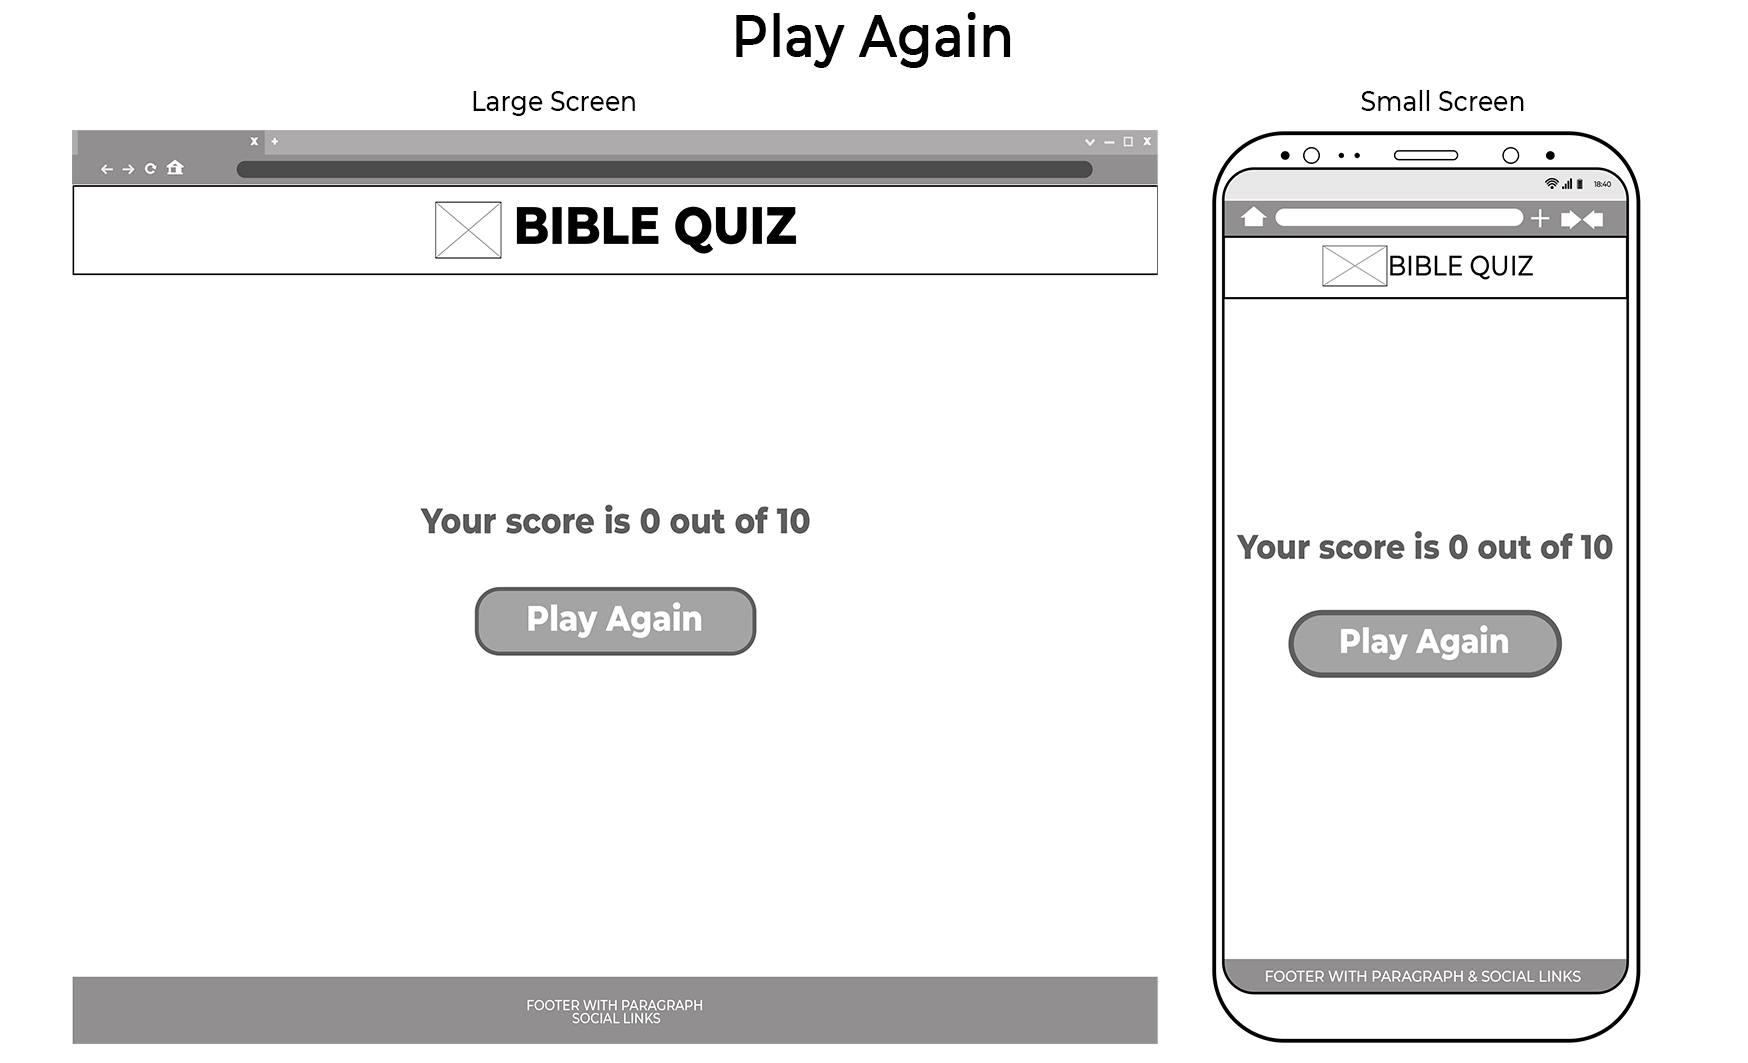
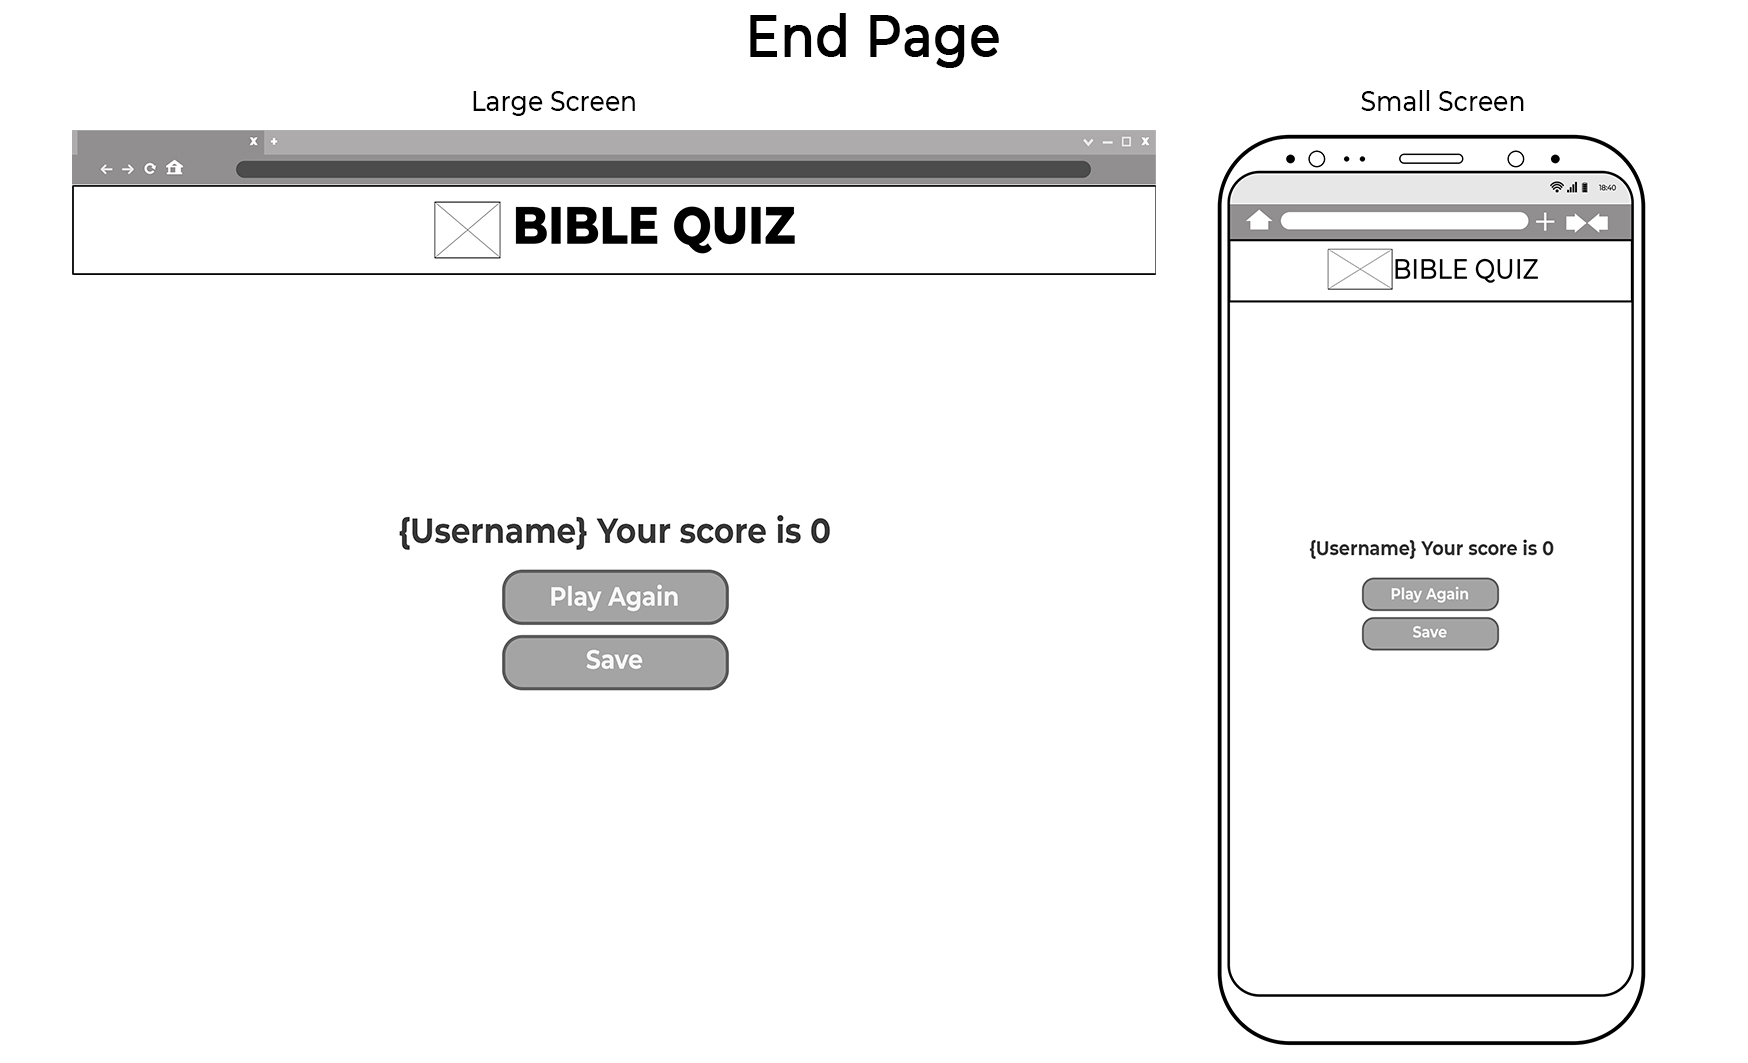
Updated Images and text in README.md

diff --git a/README.md b/README.md
@@ -44,6 +44,7 @@ View the live site [here](https://benohene.github.io/ya-bible-quiz-project/)
 - This section contains a general information about the website.
 - this section also highlight on what user should expect from the website.
 - <strong>INSTRUCTION BUTTON</strong> User can click on the this button to access a POP-UP window for instructions to the quiz.
+- <strong>LEADERBOARD BUTTON</strong> User can click on the this button to access the leaderboard page which contains Username, score and date of the game played.
 - <strong>ENTER THE QUIZ BUTTON</strong> user can click on this button to access navigate to the start screen of the quiz.
 
 ![Homepage main content](doc/readme-images/homepage-main-content.jpg)
@@ -64,12 +65,14 @@ View the live site [here](https://benohene.github.io/ya-bible-quiz-project/)
 ### Start Screen
 
 - This is the introduction page to enter the Quiz game page.
-- User must click on <stong>ENTER QUIZ BUTTON</strong> to display the quiz question.
+- User Must enter Username in the input space.
+- User must click on <stong>START QUIZ BUTTON</strong> to display the quiz question.
 
 ![Start screen](doc/readme-images/quiz-startpage.jpg)
 
 ### Quiz Dispalay Screen
 
+- <strong>Welcome Note</strong> this is the short welcome note with Username typed into the start page input.
 - <strong>Question Count</strong> This part of the section displays the question count as user continue with answering the quiz question.
 - <strong>Timer</strong> this is the timeout to let user know how many seconds left to answer question.
 - <strong>Main Question content</strong> The main question area display the question and 4 options to answer.
@@ -87,11 +90,12 @@ View the live site [here](https://benohene.github.io/ya-bible-quiz-project/)
 - When the user choose the wrong answer, it gives a red color feedback on the option choosen and green on the correct answer.
   ![Wrong Answer](doc/readme-images/wrong-answer.jpg)
 
-### Score and Play Again Page
+### End Page
 
-- This page displays the score after all question has been answered correctly or not.
+- This page displays the score after all question has been answered correctly or not-This also have username.
 - The <strong>PLAY AGAIN BUTTON</strong> allow users to restart the quiz game again or click on the LOGO to return to the homepage.
-  ![Wrong Answer](doc/readme-images/score-page.jpg)
+- The <strong>SAVE BUTTON</strong> allow users save the score and redirect user to the Leaderboard page.
+  ![End Page](doc/readme-images/score-page.jpg)
 
 ## FUTURE FEATURES
 
@@ -119,10 +123,13 @@ In the future, a username form will be create to allow users to enter their deta
 
 ![Quiz Display Screen](doc/readme-images/questionpage.jpg)
 
-### Play Again
+### End Page
 
-![Play Again](doc/readme-images/playagain.jpg)
+![End page](doc/readme-images/playagain.jpg)
 
+### Leaderboard Page
+
+![Leaderboard page](doc/readme-images/leaderboard.jpg)
 ---
 
 # TECHNOLOGIES APPLIED
@@ -175,6 +182,8 @@ During testing, the Unicorn Revealer and Wave were used to check for structure a
 <strong>Quiz Display Page</strong>
 ![Unicorn Revealer](doc/testing-images/quiz.jpg)
 
+<strong>Leaderboard Page</strong>
+![Unicorn Revealer](doc/testing-images/leaderboard.jpg)
 ### Wave Web Accessibility
 
 ![Wave](doc/testing-images/home-wave.jpg)
@@ -262,29 +271,30 @@ The result was quiet good. The testing was done one all the pages both on deskto
 
 - ### Leaderboard Button
 
-    * Clicking on the Leaderboard button will navigate users to the locally stored score on the leaderboard page either empty or with data-PASS
+  - Clicking on the Leaderboard button will navigate users to the locally stored score on the leaderboard page either empty or with data-PASS
 
 - ### Enter Quiz Button
 
-    * This will navigate from the homepage to the start page for username input and also access to start the quiz game-PASS
+  - This will navigate from the homepage to the start page for username input and also access to start the quiz game-PASS
 
 - ### Footer
-  With 3 social media links. Click on icons to navigate to various social media platforms in a new window-PASS
+  - With 3 social media links. Click on icons to navigate to various social media platforms in a new window-PASS
 
-***
+---
+
 ### <b>Start Page</b>
 
 - ### Logo
 
-  The logo is without link-PASS
+  - The logo is without link-PASS
 
 - ### Username Input and Start QUiz button
 
-  Empty Input space will give an error alert-PASS
-  Enter any name and click on Start Quiz to get access to start the Quiz game-PASS
+  - Empty Input space will give an error alert-PASS
+  - Enter any name and click on Start Quiz to get access to start the Quiz game-PASS
 
 - ### Home Button
-  Clicking this button will navigate the user back to Homepage-PASS
+  - Clicking this button will navigate the user back to Homepage-PASS
 
 ---
 
